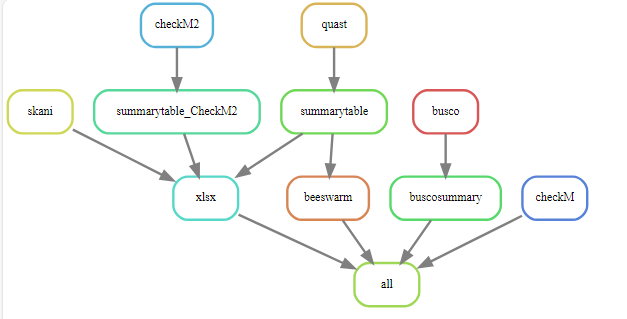
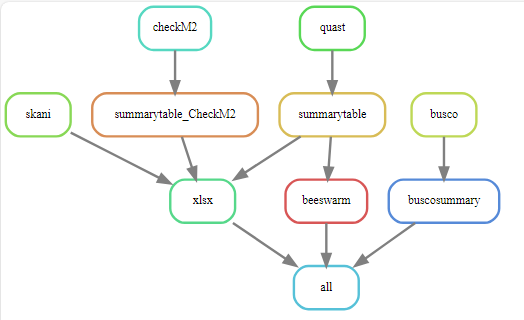
Update after emoving checkM part

Changed region(s): [[0.0, 0.0, 0.9771, 0.9875]]

diff --git a/README.md b/README.md
@@ -2,11 +2,10 @@
 Marie Hannaert\
 ILVO
 
-Assembly QC pipeline is a pipeline to perform a quality control on assemblies of bacterial genomes.
-This repository is a snakemake workflow that can be used to analyze assemblies specific for bacterial genomes. Everything needed can be found in this repository. I made this pipeline during my traineeship at ILVO-Plant. 
+The Assembly QC pipeline is designed to perform quality control on assemblies of bacterial genomes. This repository contains a Snakemake workflow that can be used to analyze assemblies specific to bacterial genomes. Everything you need can be found in this repository. I developed this pipeline during my traineeship at ILVO-Plant. 
 
 ## Installing the assembly QC pipeline
-Snakemake is a workflow management system that helps to create and execute data processing pipelines. It requires Python 3 and can be most easily installed via the bioconda package.
+Snakemake is a workflow management system that helps create and execute data processing pipelines. It requires Python 3 and can be most easily installed via the Bioconda package.
 
 ### Installing Mamba
 The first step to installing Mamba is installing Miniforge:
@@ -20,62 +19,45 @@ or
 $ wget "https://github.com/conda-forge/miniforge/releases/latest/download/Miniforge3-$(uname)-$(uname -m).sh"
 $ bash Miniforge3-$(uname)-$(uname -m).sh
 ````
-If this worked the installation of Mamba is done, if this didn't work you can check the documentation of Miniforge with the following link:
+If this worked, the installation of Mamba is done. If not, you can check the Miniforge documentation at the following link:
 [MiniForge](https://github.com/conda-forge/miniforge#mambaforge)
 
 ### Installing Bioconda 
-Then perform a one-time set up of Bioconda with the following commands. This will modify your ~/.condarc file:
+Then, perform a one-time setup of Bioconda with the following commands. This will modify your ~/.condarc file:
 ````
 $ mamba config --add channels defaults
 $ mamba config --add channels bioconda
 $ mamba config --add channels conda-forge
 $ mamba config --set channel_priority strict
 ````
-When you followed these steps Bioconda normally is installed, when it still doesn't work you can check the documentation with the following link: [Bioconda](https://bioconda.github.io/)
+If you followed these steps, Bioconda should be installed. If it still doesn't work, you can check the documentation at the following link: [Bioconda](https://bioconda.github.io/)
 ### Installing Snakemake 
-Now creating the Snakemake enviroment, we will do this by creating a snakemake mamba enviroment:
+Now, create the Snakemake environment. We will do this by creating a Snakemake Mamba environment:
 ````
 $ mamba create -c conda-forge -c bioconda -n snakemake snakemake
 ````
-If this was succesfull you can now use the following commands for activation and for help: 
+If this was successful, you can now use the following commands for activation and for help: 
 ````
 $ mamba activate snakemake
 $ snakemake --help
 ````
-To check the documentation of Snakemake you can use the following link: [Snakemake](https://snakemake.readthedocs.io/en/stable/getting_started/installation.html)
+To check the Snakemake documentation, you can use the following link: [Snakemake](https://snakemake.readthedocs.io/en/stable/getting_started/installation.html)
 
 ### Downloading the assembly QC pipeline from Github
-When you want to use the assembly QC pipeline, you can download the complete pipeline, including: scripts, conda enviroments, ... on your own local maching. Good practise is to make a directory **Snakemake/** where you can collect all of your pipelines. Downloading the assembly QC pipeline in your snakemake directory can be done by the following command: 
+When you want to use the Assembly QC pipeline, you can download the complete pipeline, including scripts, conda environments, etc., on your local machine. A good practice is to create a directory called **Snakemake/** where you can collect all of your pipelines. Downloading the Assembly QC pipeline into your Snakemake directory can be done with the following command 
 ````
 $ cd Snakemake/ 
 $ git clone https://github.com/MarieHannaert/Long-read_Snakemake.git
 ````
 ### Making the database that is used for skANI
-For using skANI you need to have a database, you can create one according to the following link: 
+To use skANI, you need to create a database. You can do this by following the instructions at the following link:
 [Creating a database for skANI](https://github.com/bluenote-1577/skani/wiki/Tutorial:-setting-up-the-GTDB-genome-database-to-search-against)
 
-When your database is installed you need to changed this path to the database in the Snakefile **Snakemake/Assembly_QC_Snakemake/Snakefile**, line 155. 
+When your database is installed, change the path to the database in the Snakefile  **Snakemake/Assembly_QC_Snakemake/Snakefile**, line 155. 
 
-### Preparing checkM
-Before you can run the pipeline you need activate checkm_data. 
-````
-$ conda activate .snakemake/conda/fc1c0b2ff8156a2c81f4d97546659744_ #This path can differ from yours
-$ mkdir checkm_data
-$ cd checkm_data
-$ wget https://data.ace.uq.edu.au/public/CheckM_databases/checkm_data_2015_01_16.tar.gz
-$ tar -xvzf checkm_data_2015_01_16.tar.gz 
-$ rm checkm_data_2015_01_16.tar.gz 
-$ cd ..
-$ export CHECKM_DATA_PATH=<your own path>/snakemake/QCpipeline/checkm_data/
-$ checkm data setRoot <your own path>/snakemake/QCpipeline/checkm_data/
-````
-When you did this you can check if this work by running:
-````
-$ checkm test ~/checkm_test_results
-````
+
 ### Preparing checkM2
-Here you also need to download the diamond database. 
-This can be done by the following steps: 
+You also need to download the diamond database for CheckM2:
 ````
 $ conda activate .snakemake/conda/5e00f98a73e68467497de6f423dfb41e_ #This path can differ from mine
 $ checkm2 database --download
@@ -85,77 +67,69 @@ $ checkm2 testrun
 Now the snakemake enviroment is ready for use with the pipeline. 
 
 ## Executing the assembly QC pipeline 
-Before you can execute this pipeline you need to perform a couple of preparing steps. 
+Before you can execute this pipeline, you need to perform a couple of preparing steps. 
 ### Preparing
-In the **Assembly_QC_Snakemake/** you need to make the following directories: **data/assemblies**
+In the **Assembly_QC_Snakemake/** directory, you need to create the following directories: **data/assemblies**
 ````
 $ cd Assembly_QC_Snakemake/
 $ mkdir data/assemblies
 ````
-In the assemblies directory you need to place the assemblies that you want to analyse. They must look like the following two assemblies:
+In the assemblies directory, place the assemblies that you want to analyze. They must look like the following two assemblies:
 - sample1.fna
 - sample2.fna
 
 #### Making scripts executable 
-To make the scripts executable you need to run the following command in the **Snakemake/Assembly_QC_Snakemake/** :
+To make the scripts executable, run the following command in the **Snakemake/Assembly_QC_Snakemake/** directory:
 ````
 $ chmod +x scripts/*
 ````
-This is needed because otherwise the scripts that are used in the pipeline cannot be executed. 
+This is needed because otherwise, the scripts used in the pipeline cannot be executed.
 
 #### Personalize genomesize
-The genomesize is hardcoded in multiple lines. you need to change this to your genomesize. 
-The lines in the Snakefile were you need to change this are:
+The genome size is hardcoded in multiple lines. You need to change this to your genome size. The lines in the Snakefile where you need to change this are:
 - line 53
 - line 109
 
 ## Executing the assembly QC pipeline
-Now everything is ready to run the pipeline. 
-If you want to run the pipeline without any output, just checking it it works, you can use the following command in the **Assembly_QC_Snakemake/**: 
+Now everything is ready to run the pipeline.
+If you want to run the pipeline without any output, just to check if it works, use the following command in the **Assembly_QC_Snakemake/** directory: 
 ````
 $ snakemake -np
 ````
-Now you will get an overview of all the steps in the pipeline. 
+You will get an overview of all the steps in the pipeline. 
 
-If you want to execute the pipeline and your assemblies are place in the **data/assemblies** directory, you can use the following command: 
+If you want to execute the pipeline and your assemblies are placed in the **data/assemblies** directory, you can use the following command: 
 ````
-$ snakemake -j 4
+$ snakemake -j 4 --use-conda
 ````
-The -j option is needed when you work on a local server, this defines the number of treads that will be used to perform the pipeline, so you can chose the number yourself. 
+The -j option specifies the number of threads to use, which you can adjust based on your local server. The --use-conda option is needed to use the conda environments in the pipeline.
 
 ### Pipeline content
-The pipeline has five big steps. Besides these steps there are some side steps to make summaries and visualisations. 
+The pipeline has five main steps. Besides these steps, there are some side steps to create summaries and visualizations. 
 
 #### skANI
-skANI is a program for calculating average nucleotide identity (ANI) from DNA sequences (contigs/MAGs/genomes) for ANI > ~80%.
-The output of skANI is a summary file: **skani_results_file.txt**, this info will be put in a xlsx file togheter with Quast summary file. 
+skANI is a program for calculating average nucleotide identity (ANI) from DNA sequences (contigs/MAGs/genomes) for ANI > ~80%. The output of skANI is a summary file: **skani_results_file.txt**. This information will be put into an XLSX file together with the Quast summary file.
 
 SkANI documentation: [skANI](https://github.com/bluenote-1577/skani)
 #### Quast
-Quast is a Quality Assessment Tool for Genome Assemblies by CAB. The output will be a directory of each sample. From these directories we will make a summary file: **quast_summary_table.txt**. The information of this summary file will also be added to the XLSX file togheter with skANI summary file, the result can be found in the file **skANI_Quast_checkM2_output.xlsx**. From the summary file of Quast we will also make some beeswarm visualisation vor the number of contigs and the N50. This can be found in the following file **beeswarm_vis_assemblies.png**. 
+Quast is a Quality Assessment Tool for Genome Assemblies by CAB. The output will be a directory for each sample. From these directories, we will create a summary file: **quast_summary_table.txt**. The information from this summary file will also be added to the XLSX file together with the skANI summary file. The result can be found in the file **skANI_Quast_checkM2_output.xlsx**. From the Quast summary file, we will also create some beeswarm visualizations for the number of contigs and the N50. This can be found in the file **beeswarm_vis_assemblies.png**.
 
 Quast documentation: [Quast](https://quast.sourceforge.net/)
 #### Busco
-Assessing Genome Assembly and Annotation Completeness.
-Based on evolutionarily-informed expectations of gene content of near-universal single-copy orthologs, the BUSCO metric is complementary to technical metrics like N50.
-The output of Busco is a directory for each sample. To make it more visible, there will be made a summary graph per fifteteen assemblies. 
+Assessing Genome Assembly and Annotation Completeness. Based on evolutionarily-informed expectations of gene content of near-universal single-copy orthologs, the BUSCO metric is complementary to technical metrics like N50. The output of BUSCO is a directory for each sample. To make it more visible, a summary graph will be created for every fifteen assemblies.
 
 Busco documentation: [Busco](https://busco.ezlab.org/)
 
-#### CheckM
-CheckM is a tool that will check the quality of your assemblies, specific for contamination. CheckM is more like a set of tools that will be performed on your assemblies. 
-
-CheckM documentation: [CheckM](https://github.com/Ecogenomics/CheckM/wiki)
 #### CheckM2
-CheckM2 is almost the same as CheckM, but CheckM2 has universally trained machine learning models. 
+CheckM2 is similar to CheckM, but CheckM2 has universally trained machine learning models.
 
 >This allows it to incorporate many lineages in its training set that have few - or even just one - high-quality genomic representatives, by putting it in the context of all other organisms in the training set.
 
-From these result there will be made a summary table and then this summary table will be used also as input for the xlsx file: **skANI_Quast_checkM2_output.xlsx**.
+From these results, a summary table will be created and used as input for the XLSX file:  **skANI_Quast_checkM2_output.xlsx**.
 
 CheckM2 documentation: [CheckM2](https://github.com/chklovski/CheckM2)
 ## Finish
-When your done executing the pipeline you will find the following structure in you **assembly_QC_Snakemake/**:
+When you're done executing the pipeline, you will find the following structure in your  **assembly_QC_Snakemake/**:
 ````
 Snakemake/
 ├─ Assembly_QC_Snakemake/
@@ -172,7 +146,6 @@ Snakemake/
 |  |  ├─skani/
 |  |  ├─quast/
 |  |  ├─busco/
-|  |  ├─checkm/
 |  |  ├─checkM2/
 |  |  ├─busco_summary/
 |  |  ├─skANI_Quast_checkM2_output.xlsx
